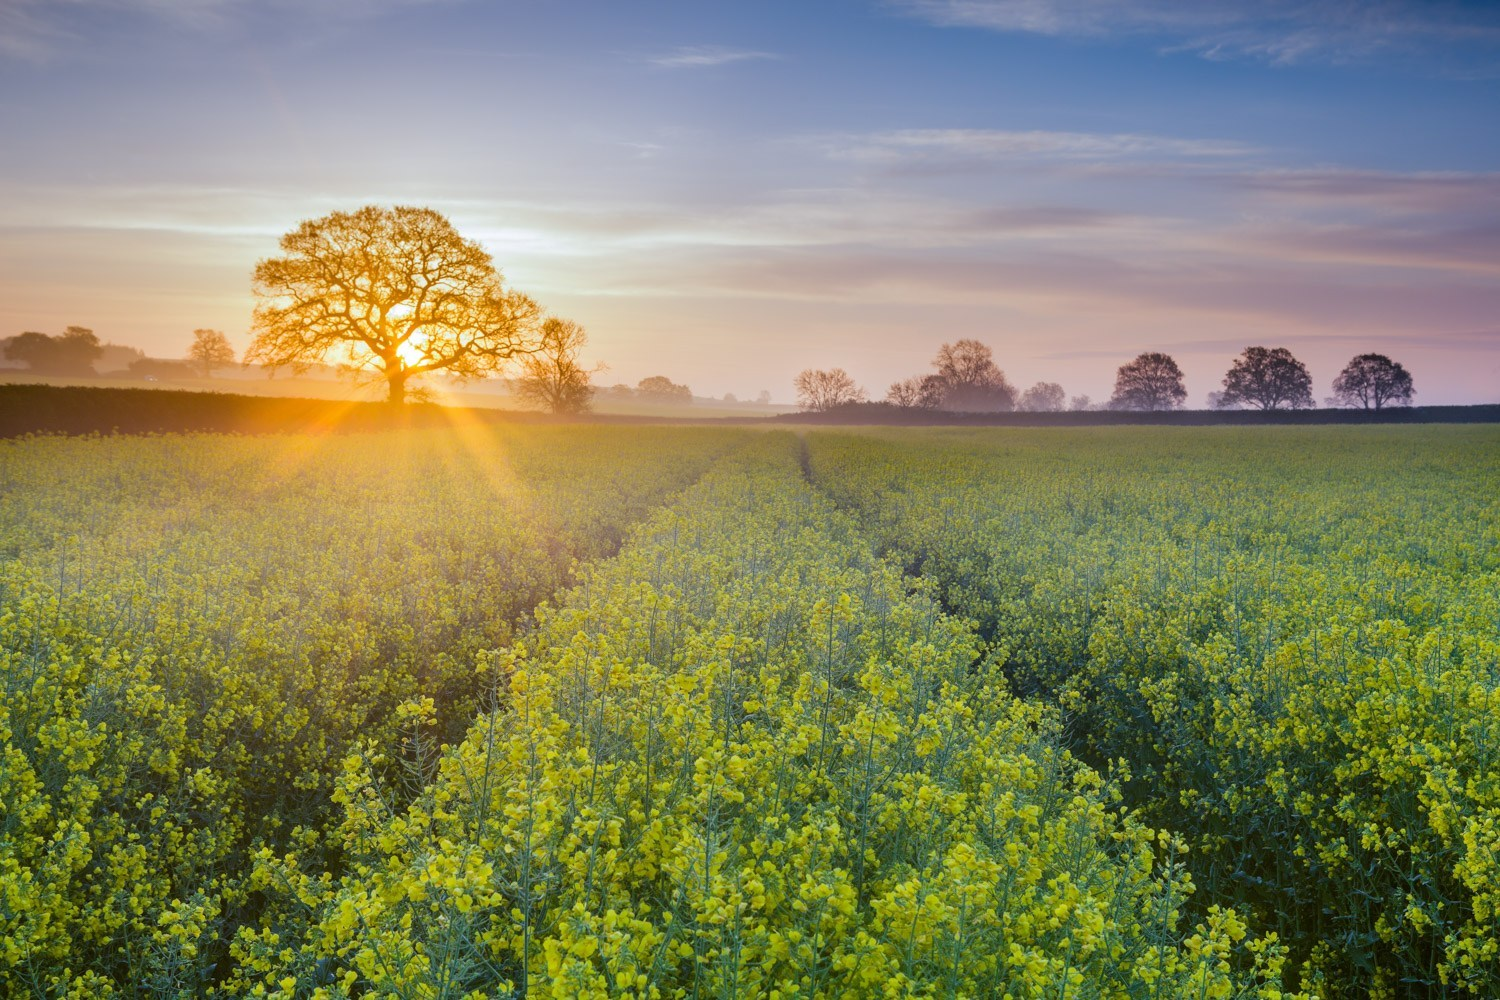
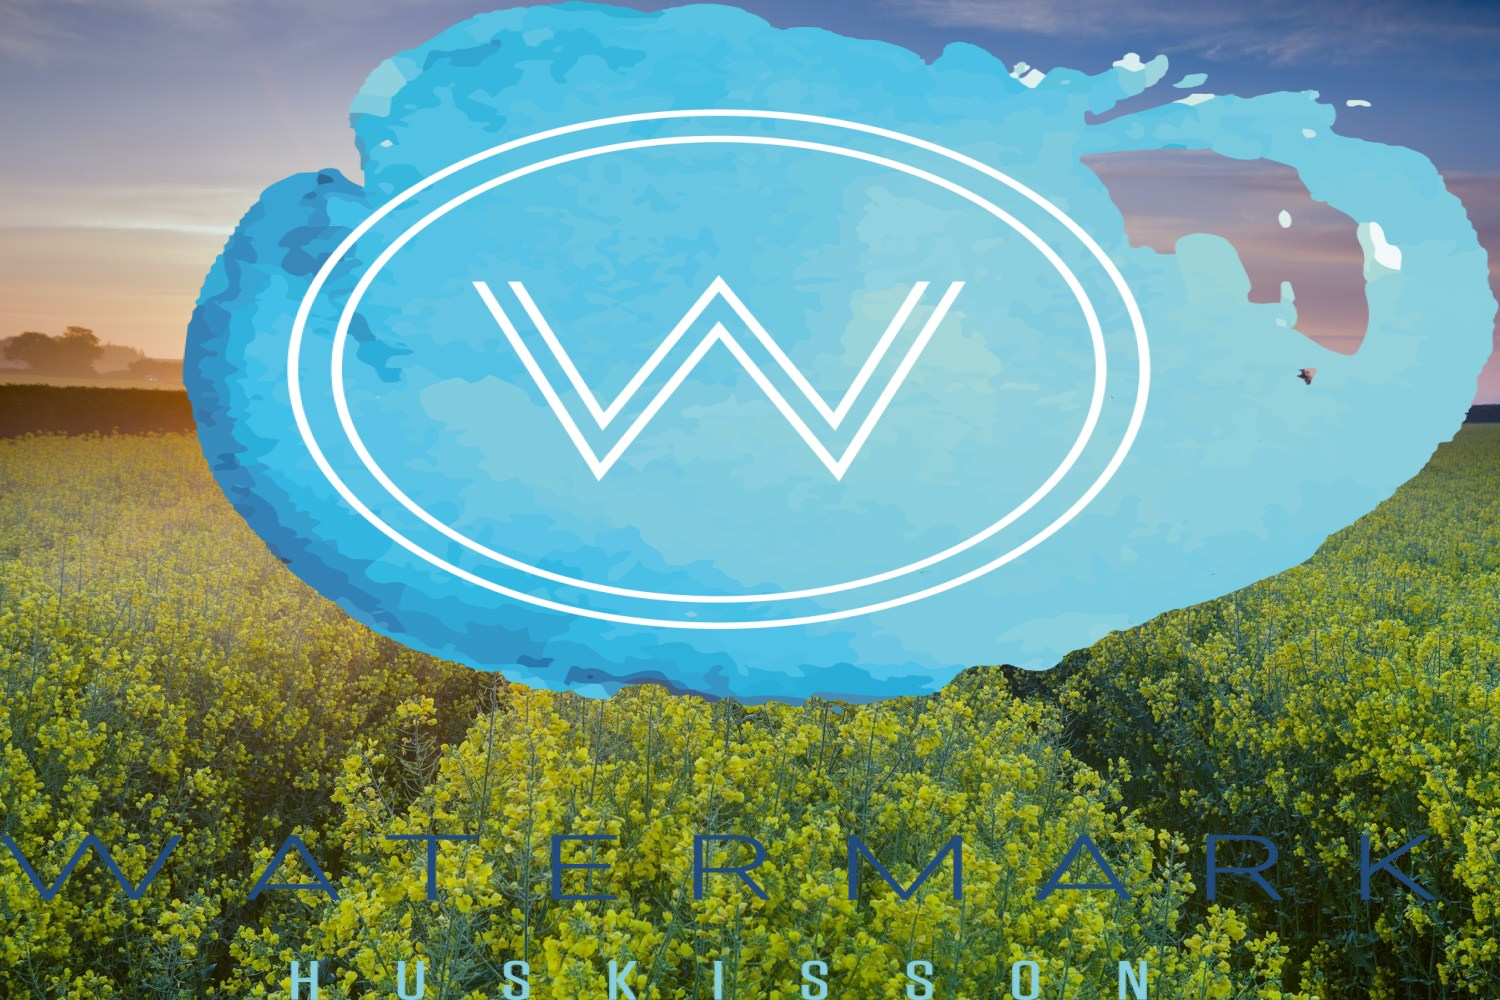
html downbload & format selection

diff --git a/WaterMarky.php b/WaterMarky.php
@@ -89,28 +89,46 @@
                         ?>        
                     </select>
                 </div> 
+                <div class="form-group">
                     <button class="btn btn-primary" type="submit" name="submit" id="inputGroupFileAddon03">Do The Image Magic</button>
                 </div> 
             </form>   
         </div>
+
+        <div class="container" id="download" name="download"> 
+            <form>
+                <div class="form-row">
+                    <div class="col">
+                        <select id="inputState" class="form-control">
+                            <option selected>Choose format...</option>
+                            <option>jpg</option>
+                            <option>png</option>
+                            <option>bmp</option>
+                            <option>svg</option>
+                            <option>pdf</option>
+                        </select>
+                    </div>
+                    <div class="col">
+                        <button class="btn btn-primary" type="submit" name="submit" id="inputGroupFileAddon03">Do The Image Magic</button>
+                    </div>
+                </div>
+            </form>
+        </div>
+
         <div class="container" id="preview" name="preview"> 
         <h6>Preview</h6>
-         <img src="
          <?php
                 if(isset($_SESSION['preview_pic']) && is_file($_SESSION['preview_pic']))
-                    echo $_SESSION['preview_pic'];      
+                    echo '<a href="'.$_SESSION['preview_pic'].'""><img src="'.$_SESSION['preview_pic'].'" alt="" class="img-thumbnail">';      
                 else
-                    echo 'rsc/no_img.png'; 
-                    
-        ?>
-         " alt="" class="img-thumbnail">
-            
-           <?php         
+                    echo '<img src="rsc/no_img.png" alt="" class="img-thumbnail">';     
+        
                 //DEBUG :3
                 //echo '<pre>';
                 //print_r($_SESSION['preview_pic']);
                 //echo '</pre>';
 
+                //https://www.tutorialrepublic.com/php-tutorial/php-file-download.php
                 /* Array containing sample image file names
                 $images = array("kites.jpg", "balloons.jpg");
                 
@@ -122,7 +140,7 @@
                     echo '</div>';
                 }*/
             ?>
-            </div>
+        </div>
 		<script src="https://stackpath.bootstrapcdn.com/bootstrap/4.1.3/js/bootstrap.min.js" integrity="sha384-ChfqqxuZUCnJSK3+MXmPNIyE6ZbWh2IMqE241rYiqJxyMiZ6OW/JmZQ5stwEULTy" crossorigin="anonymous"></script>
 	</body>
 </html>

diff --git a/enchant_pictures.php b/enchant_pictures.php
@@ -52,14 +52,7 @@
         // Draw the watermark on your image
         $image->compositeImage($watermark, Imagick::COMPOSITE_OVER, $x, $y);
 
-
-        // From now on depends on you what you want to do with the image
-        // for example save it in some directory etc.
-        // In this example we'll Send the img data to the browser as response
-        // with Plain PHP
-
-        // Or if you prefer to save the image on some directory
-        // Take care of the extension and the path !
+        // save the image 
         $image->writeImage(getcwd(). "/enchanted_pics/pic_watermark." . $image->getImageFormat()); 
         $_SESSION['preview_pic'] = "enchanted_pics/pic_watermark." . $image->getImageFormat();
 
